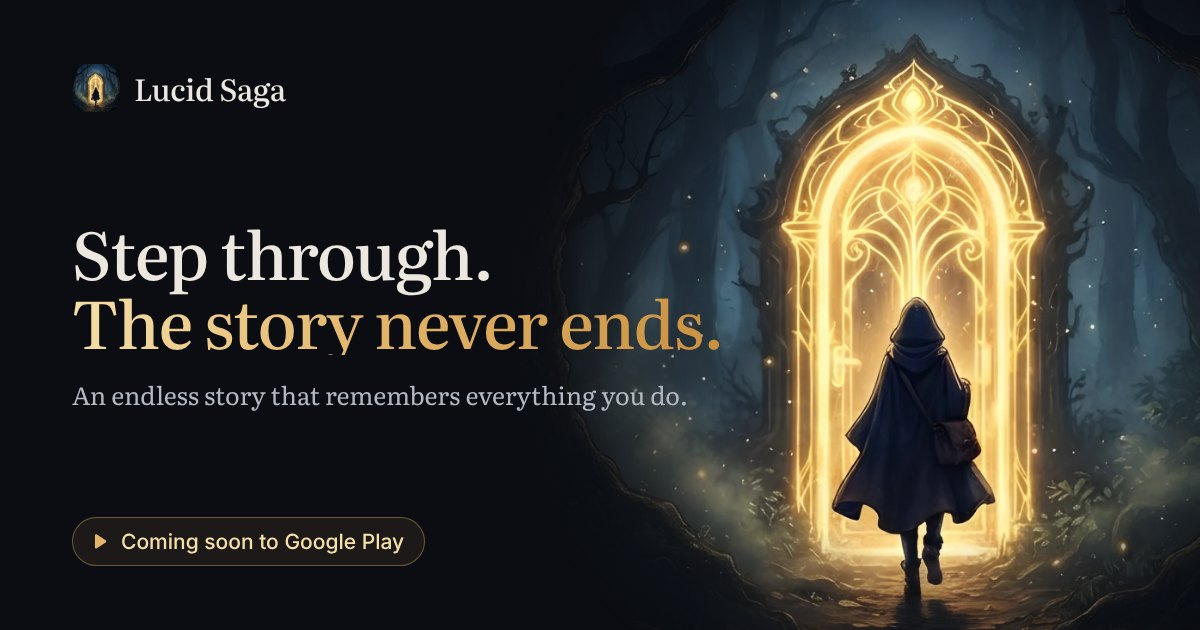
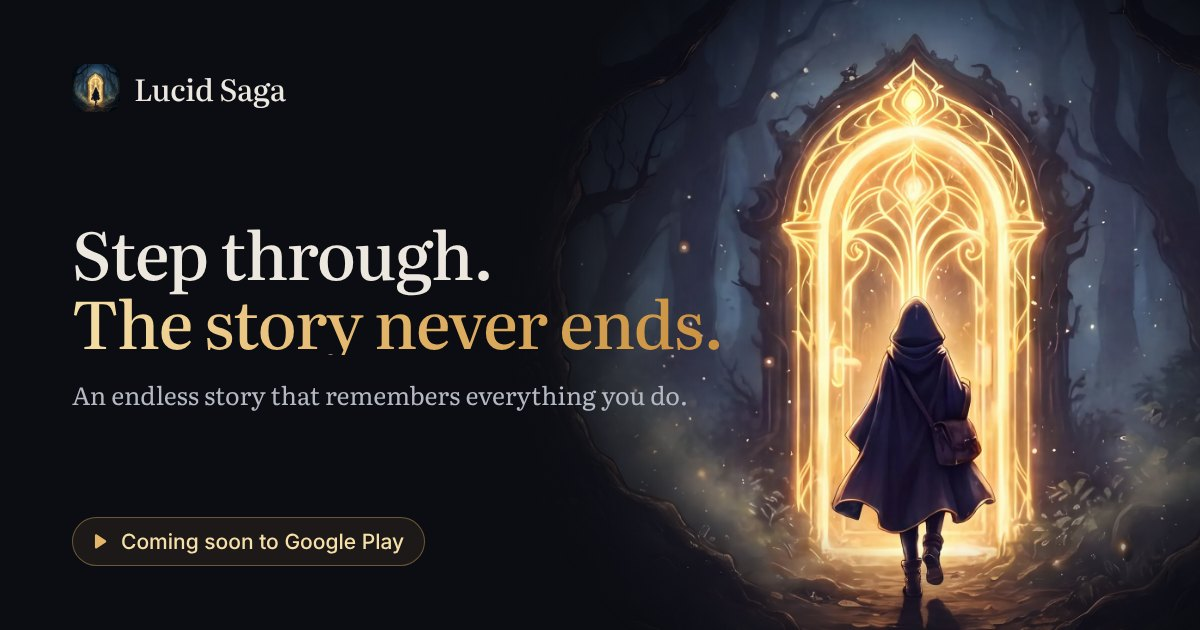
Repaint the hero's gate at 4K with a better drawn traveller
The gate was the app icon's 584 px panel, upscaled 4x with Real-ESRGAN. Gemini 3 Pro Image on
Vertex AI now paints it again at 4096 px in two steps: a faithful copy, which cleans up the
upscale's smudges, then the same picture with the cloaked traveller drawn with more care (a gold
rim of light along the hood and hem, robe folds, the satchel, laced boots). The rest of the scene
is unchanged. The site still serves it at 2000 px (156 KB), and the link previews are redrawn.

scripts/repaint.py records how, with the exact prompts.

Claude-Session: https://claude.ai/code/session_013H8x9KALpP3M9dFJdQZhvw

diff --git a/scripts/repaint.py b/scripts/repaint.py
@@ -1,0 +1,165 @@
+"""Repaints a picture at 4K with Gemini on Vertex AI, keeping its design. The hero's gate was made
+with it (scripts/prepare_images.py, gate.png), in two steps after scripts/upscale.py:
+
+    python3 scripts/repaint.py gate-x4.png out --variant faithful --model gemini-3-pro-image
+    python3 scripts/repaint.py out/faithful-gemini-3-pro-image.png out --variant traveller \\
+        --model gemini-3-pro-image
+
+- gate-x4.png is the Real-ESRGAN upscale of the app icon's painting (scripts/upscale.py). The
+  faithful step paints it again at 4096 px with nothing moved, which cleans up the upscale's
+  smudges; the traveller step then draws the cloaked traveller with more care (a gold rim of
+  light, robe folds, the satchel, boots) and leaves the rest of the scene alone. The last
+  picture is gate.png.
+- The reference goes to the model as a 2048 px JPEG. Gemini paints a new picture each time, so a
+  second run gives a close cousin, not the same file.
+
+It runs in the playable-anime Google Cloud project on Vertex AI's global endpoint and signs in
+with Application Default Credentials, or with --gcloud-config NAME, which asks that gcloud
+configuration for a short-lived token and keeps it in memory. No keys, and nothing secret is
+printed. Each 4K picture is billed to the project.
+
+Needs google-genai and Pillow (pip install google-genai pillow).
+"""
+
+from __future__ import annotations
+
+import argparse
+import io
+import os
+import shutil
+import subprocess
+import sys
+import time
+from pathlib import Path
+
+from google import genai
+from google.genai import types
+from PIL import Image
+
+PROJECT = os.environ.get("GCP_PROJECT", "").strip() or "playable-anime"
+LOCATION = os.environ.get("VERTEX_LOCATION", "").strip() or "global"
+REFERENCE_PX = 2048
+
+# Image models that paint 4K on Vertex AI's global endpoint (checked 2026-11-10), best first.
+MODELS = ["gemini-3-pro-image", "gemini-nano-banana-2.1"]
+
+STYLE = (
+    "Painterly anime key-art style, cinematic low-key lighting, deep ink-blue night tones with one "
+    "strong warm gold accent. No text, no letters, no logos, no watermark, no border, no frame."
+)
+
+VARIANTS = {
+    # The same picture, only sharper: nothing moves, nothing is added.
+    "faithful": (
+        "Recreate this exact painting as a crisp, high-resolution 4K image. Keep everything "
+        "exactly where it is: the glowing golden doorway, the small cloaked traveller stepping "
+        "through it, every tree trunk and branch, the mist, the light rays, the colours and the "
+        "lighting. Do not add, remove, move or restyle anything, and keep the same framing. Only "
+        "resolve the soft, blurry areas into clean, fine painterly detail with sharp edges, as if "
+        "the original artist had painted it at 4K. " + STYLE
+    ),
+    # Almost the same design, painted afresh at 4K with the picture as the guide.
+    "fresh": (
+        "Paint this scene again from scratch as a new high-resolution 4K illustration, keeping the "
+        "same design and composition as the reference: a glowing doorway of golden light standing "
+        "alone in a dark misty forest, a small cloaked traveller about to step through, centred, "
+        "with tall dark trees framing it and golden light spilling onto the forest floor. Richer "
+        "detail in the bark, the leaves, the mist and the traveller's cloak, and a luminous, "
+        "magical glow from the doorway. " + STYLE
+    ),
+    # The same picture with a better drawn traveller.
+    "traveller": (
+        "Keep this painting exactly as it is, as a crisp high-resolution 4K image: the same golden "
+        "doorway, trees, mist, light, colours and framing, with nothing added, removed or moved. "
+        "Improve only the small cloaked traveller walking into the doorway, seen from behind: "
+        "make them more defined and beautifully rendered. A clearly shaped hood with a thin rim of "
+        "golden light along its edge, soft folds and the texture of heavy ink-blue wool in the "
+        "robe, the hem and the shoulders catching the doorway's glow, a worn leather satchel on a "
+        "strap across the back, dark trousers and leather boots mid-stride, and a long soft shadow "
+        "on the path. The traveller keeps the same size, pose and place, and stays a dark, "
+        "readable silhouette against the light. " + STYLE
+    ),
+}
+
+
+def gcloud_credentials(configuration: str):
+    """A short-lived token from a gcloud configuration, kept in memory and never printed."""
+    from google.oauth2.credentials import Credentials
+
+    gcloud = shutil.which("gcloud")
+    if not gcloud:
+        sys.exit("gcloud is not on PATH")
+    token = subprocess.run(
+        [gcloud, "auth", "print-access-token", f"--configuration={configuration}"],
+        capture_output=True,
+        text=True,
+        check=True,
+    ).stdout.strip()
+    return Credentials(token)
+
+
+def as_reference(path: Path) -> bytes:
+    """The picture as the model sees it: a JPEG at most 2048 px wide."""
+    image = Image.open(path).convert("RGB")
+    if image.width > REFERENCE_PX:
+        height = round(image.height * REFERENCE_PX / image.width)
+        image = image.resize((REFERENCE_PX, height), Image.Resampling.LANCZOS)
+    buffer = io.BytesIO()
+    image.save(buffer, "JPEG", quality=95)
+    return buffer.getvalue()
+
+
+def paint(client: genai.Client, model: str, prompt: str, reference: bytes) -> tuple[bytes, str]:
+    response = client.models.generate_content(
+        model=model,
+        contents=[types.Part.from_bytes(data=reference, mime_type="image/jpeg"), prompt],
+        config=types.GenerateContentConfig(
+            response_modalities=["IMAGE"],
+            image_config=types.ImageConfig(aspect_ratio="1:1", image_size="4K"),
+        ),
+    )
+    usage = response.usage_metadata
+    tokens = f"in {usage.prompt_token_count}, out {usage.candidates_token_count}" if usage else "?"
+    for candidate in response.candidates or []:
+        for part in candidate.content.parts if candidate.content else []:
+            if part.inline_data and part.inline_data.data:
+                return part.inline_data.data, tokens
+    reasons = [str(c.finish_reason) for c in response.candidates or []]
+    raise RuntimeError(f"no picture in the answer (finish: {reasons})")
+
+
+def main() -> int:
+    parser = argparse.ArgumentParser(description=__doc__.splitlines()[0])
+    parser.add_argument("reference", type=Path, help="the picture to repaint")
+    parser.add_argument("out", type=Path, help="the folder for the new pictures")
+    parser.add_argument("--variant", action="append", choices=sorted(VARIANTS))
+    parser.add_argument("--model", action="append", help="defaults to every model in MODELS")
+    parser.add_argument("--gcloud-config", help="sign in with this gcloud configuration's token")
+    args = parser.parse_args()
+
+    reference = as_reference(args.reference)
+    args.out.mkdir(parents=True, exist_ok=True)
+    credentials = gcloud_credentials(args.gcloud_config) if args.gcloud_config else None
+    client = genai.Client(
+        vertexai=True, project=PROJECT, location=LOCATION, credentials=credentials
+    )
+
+    painted = 0
+    for model in args.model or MODELS:
+        for name in args.variant or ["faithful"]:
+            started = time.monotonic()
+            try:
+                data, tokens = paint(client, model, VARIANTS[name], reference)
+            except Exception as error:  # noqa: BLE001 - report it and go on to the next model
+                print(f"{model} {name}: failed: {type(error).__name__}: {str(error)[:300]}")
+                break
+            path = args.out / f"{name}-{model}.png"
+            path.write_bytes(data)
+            painted += 1
+            seconds = time.monotonic() - started
+            print(f"{model} {name}: {path}, {len(data):,} bytes, {seconds:.0f}s, tokens {tokens}")
+    return 0 if painted else 1
+
+
+if __name__ == "__main__":
+    sys.exit(main())

diff --git a/scripts/prepare_images.py b/scripts/prepare_images.py
@@ -9,8 +9,9 @@ SOURCES_DIR holds what the site draws on, none of it kept in this repo:
   dark band for the app's title, where the model sometimes writes words of its own, so only the
   top 68 % is kept.
 - gate.png: the forest gate painting behind the app icon, the panel the icon shows, upscaled 4x
-  with Real-ESRGAN to 2336 x 2336 (scripts/upscale.py says how). The hero shows it up to 1000 px
-  wide, so a retina screen needs 2000 px.
+  with Real-ESRGAN (scripts/upscale.py) and then repainted at 4096 x 4096 by Gemini with a better
+  drawn traveller (scripts/repaint.py says how). The hero shows it up to 1000 px wide, so a
+  retina screen needs 2000 px.
 - popup-world.png: a book that opens into a world, from the same round of paintings.
 - scenes/<name>.jpg: scene pictures in the house style (1376 x 768).
 - icon.png: the app's launcher icon at 512 px (PlayableAnime app/web/icons/Icon-512.png).

diff --git a/scripts/upscale.py b/scripts/upscale.py
@@ -1,7 +1,7 @@
 """Upscales a picture 4x with Real-ESRGAN, on the CPU, for when a source is smaller than the site
-shows it. The hero's gate was made with it (scripts/prepare_images.py, gate.png):
+shows it. The hero's gate starts with it, before scripts/repaint.py paints it again at 4K:
 
-    python3 scripts/upscale.py forest-gate.jpg RealESRGAN_x4plus.pth gate.png --crop 225,228,584
+    python3 scripts/upscale.py forest-gate.jpg RealESRGAN_x4plus.pth gate-x4.png --crop 225,228,584
 
 - forest-gate.jpg is the app icon's painting (PlayableAnime app/tool/app_icon/forest-gate.jpg).
   Gemini painted the scene on an inner panel of the 1024 px square, and --crop takes that panel:

diff --git a/README.md b/README.md
@@ -43,7 +43,8 @@ what to check before the Play listing, is in [docs/LEGAL.md](docs/LEGAL.md).
 
 - The gate art, the world covers and the scene pictures are the game's own, cropped and converted
   by `scripts/prepare_images.py`. The gate is the app icon's painting, upscaled 4x with
-  Real-ESRGAN (`scripts/upscale.py`) so it stays sharp on retina screens.
+  Real-ESRGAN (`scripts/upscale.py`) and repainted at 4K by Gemini on Vertex AI with a better
+  drawn traveller (`scripts/repaint.py`), so it stays sharp on retina screens.
 - Link previews (`public/og/*.jpg`) are drawn from the hero's words by `scripts/og-images.mjs`.
 - Fonts are Inter and Literata (SIL Open Font License, in `src/fonts`), subset by
   `scripts/subset-fonts.sh`.
